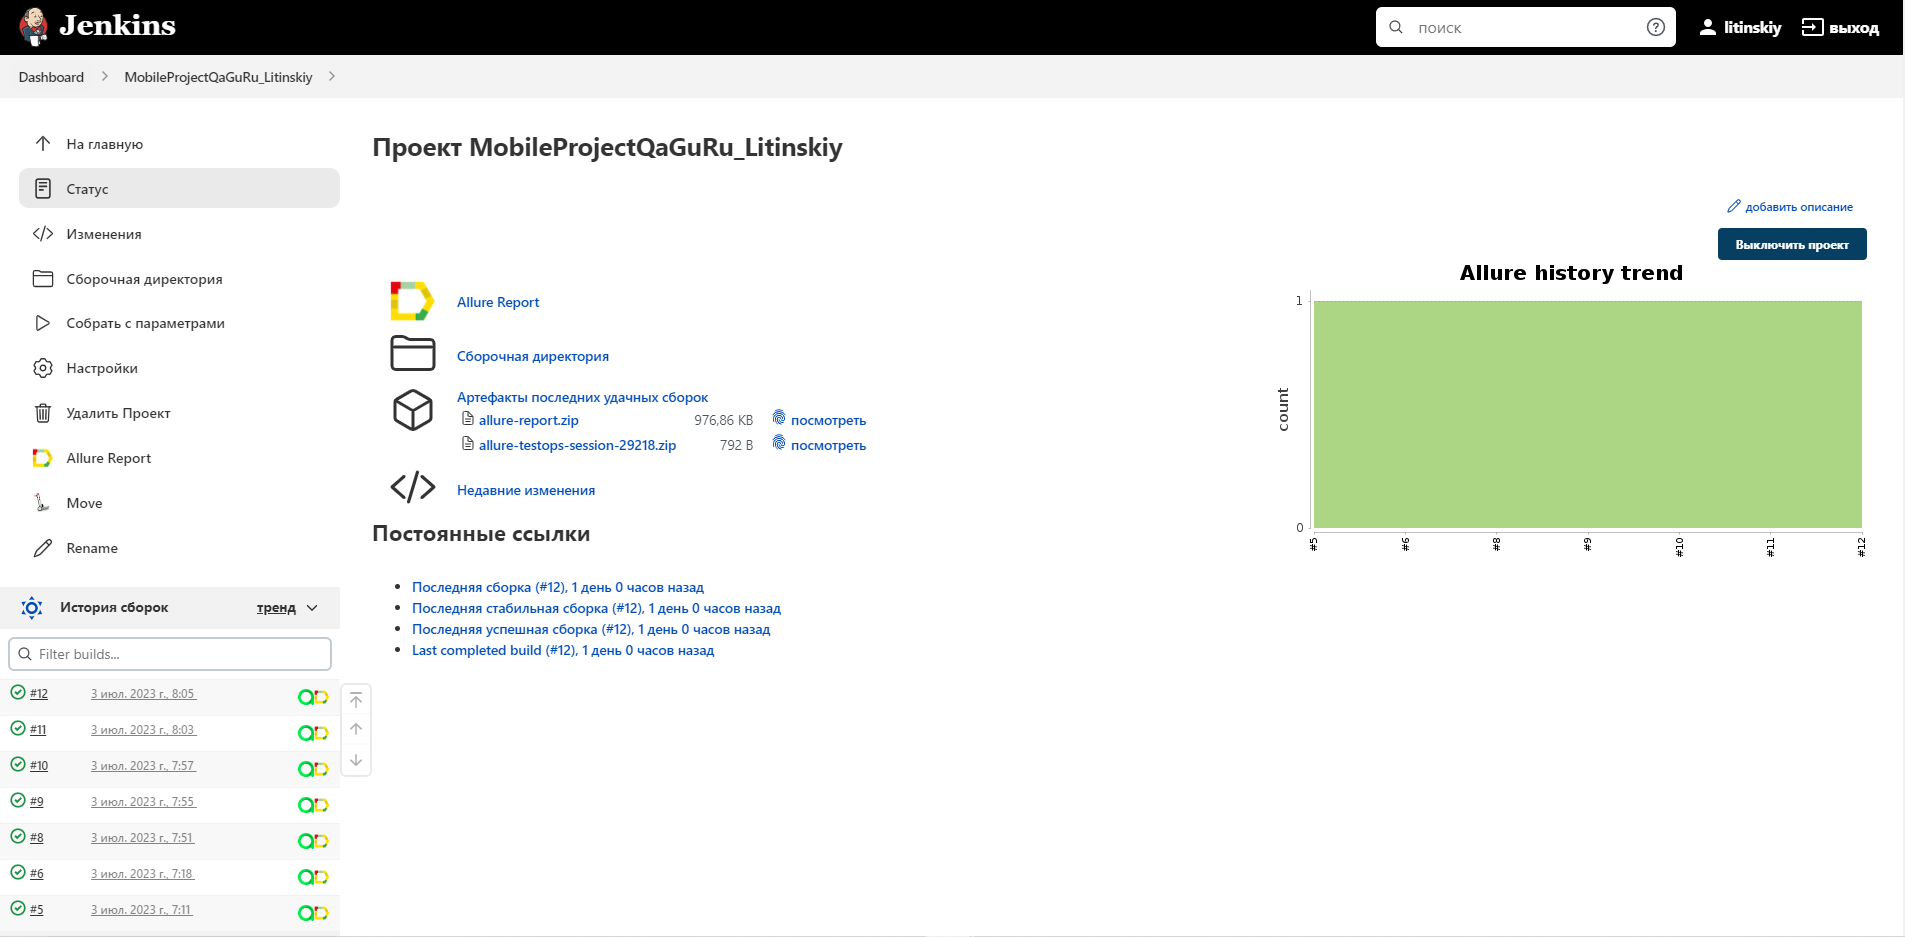
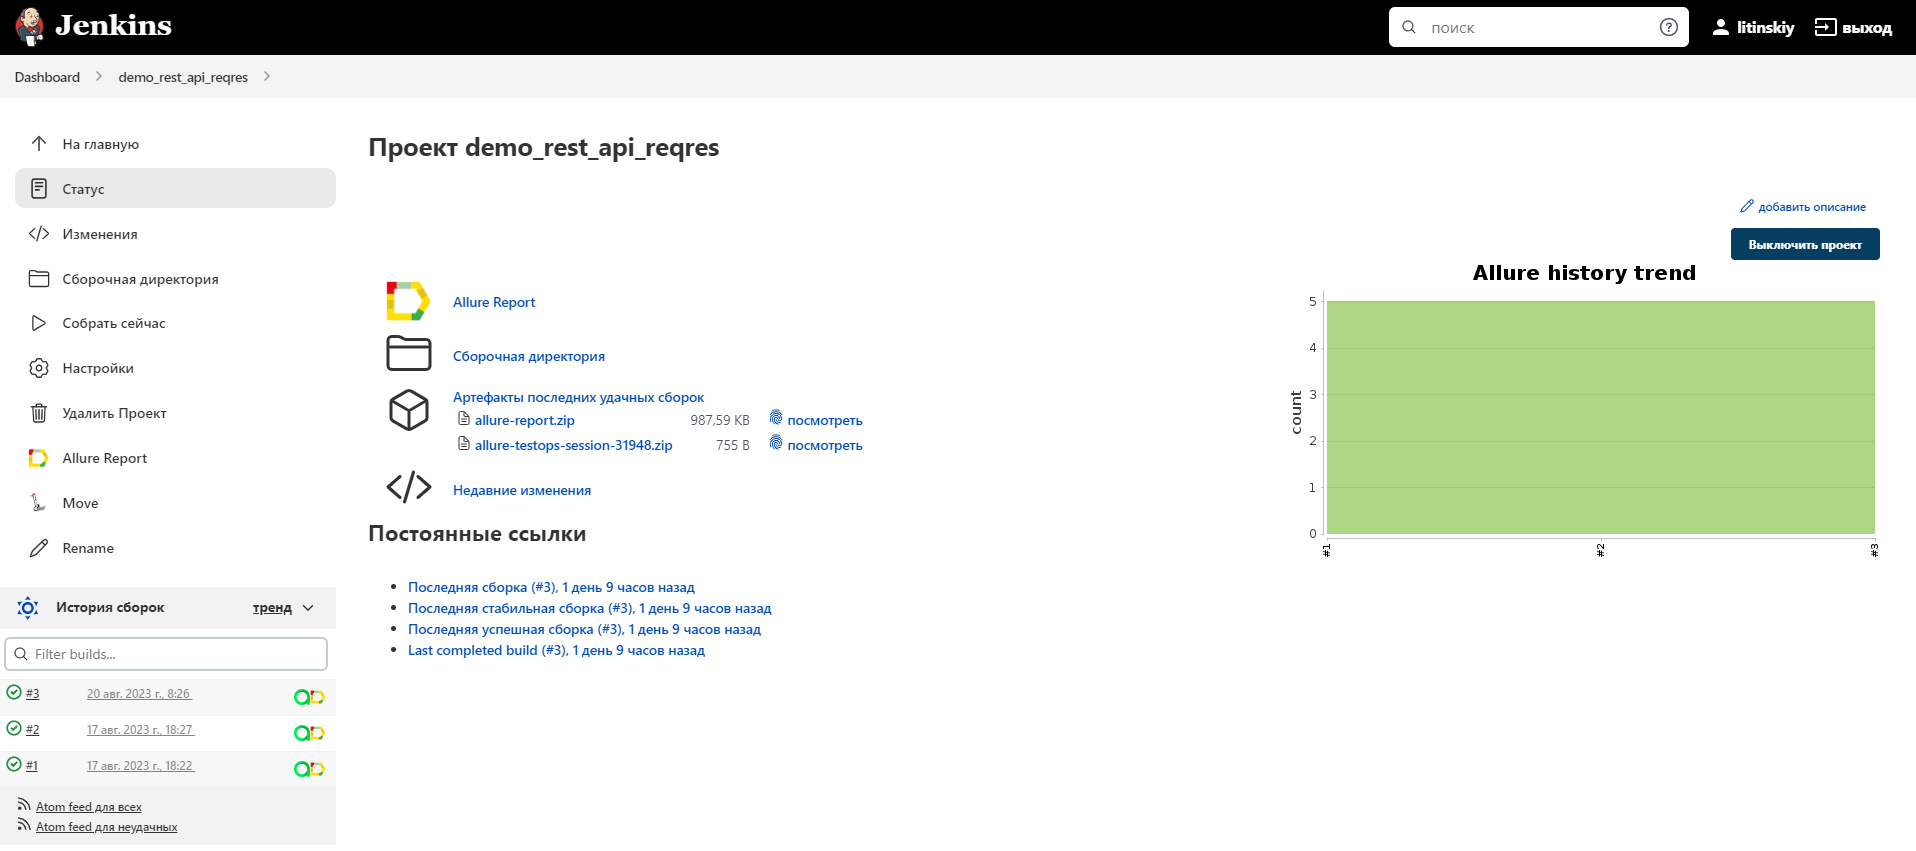
Filename changed; Some png files changed.

diff --git a/src/test/java/tests/ReqresInTests.java b/src/test/java/tests/ReqresInTests.java
@@ -10,7 +10,7 @@ import static org.assertj.core.api.Assertions.assertThat;
 import static org.junit.jupiter.api.Assertions.assertEquals;
 import static tests.specs.Specs.*;
 
-public class ReqresInHWTests {
+public class ReqresInTests {
 
     String userName = "school 5";
     String userJob = "teacher";

diff --git a/README.md b/README.md
@@ -63,7 +63,7 @@ gradle clean test
 ```
 
 
-## <a name="Run in Jenkins">Run in [Jenkins](https://jenkins.autotests.cloud/job/RestApiProjectQaGuRu_Litinskiy/)</a>
+## <a name="Run in Jenkins">Run in [Jenkins](https://jenkins.autotests.cloud/job/demo_rest_api_reqres/)</a>
 
 
 Main page of the project:
@@ -92,7 +92,7 @@ Telegram-бот отправляет краткий отчет в указанн
 
 [Back to Contents ⬆](#Contents)
 
-# <a name="Test results in Allure Report">Test results in [Allure Report](https://jenkins.autotests.cloud/job/RestApiProjectQaGuRu_Litinskiy/allure/)</a>
+# <a name="Test results in Allure Report">Test results in [Allure Report](https://jenkins.autotests.cloud/job/demo_rest_api_reqres/allure/)</a>
 
 ## Home
 
@@ -117,7 +117,7 @@ Telegram-бот отправляет краткий отчет в указанн
 
 [Back to Contents ⬆](#Contents)
 
-# <a>Integration with [Allure TestOps](https://allure.autotests.cloud/launch/26543)</a>
+# <a>Integration with [Allure TestOps](https://allure.autotests.cloud/launch/28948)</a>
 
 
 ## Allure TestOps Dashboard
